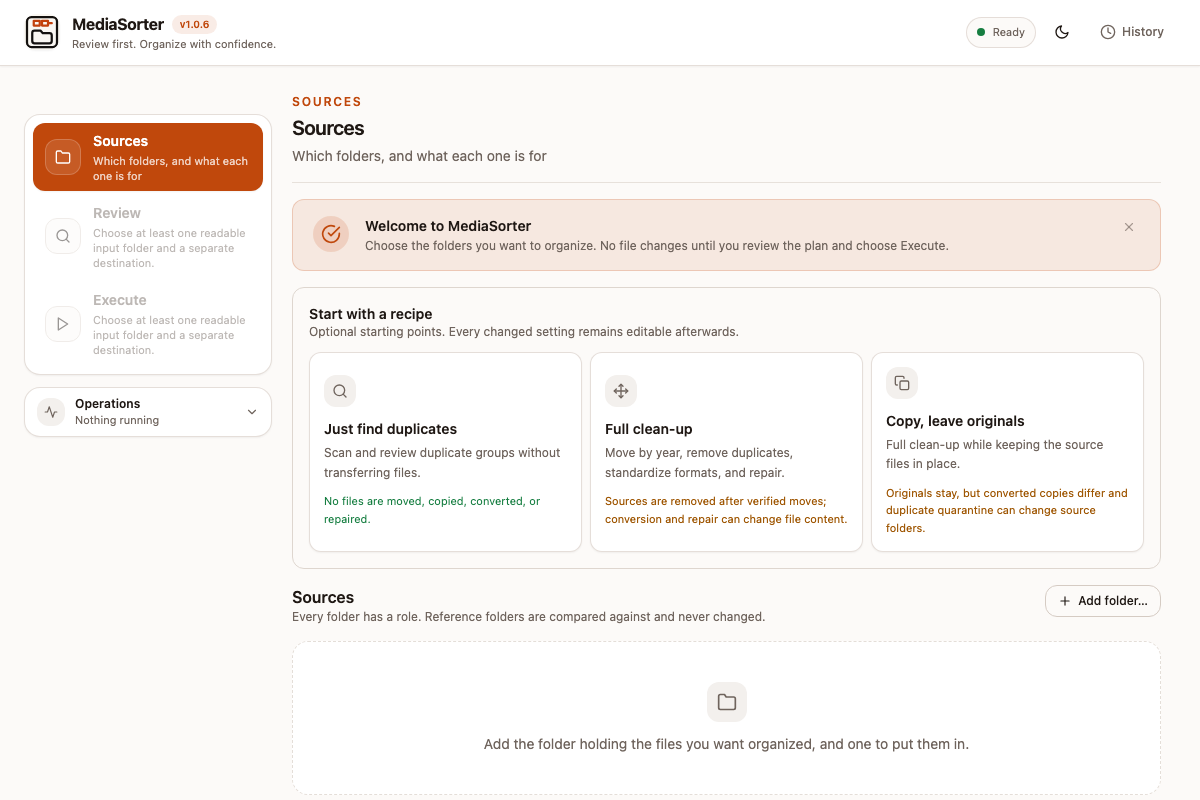
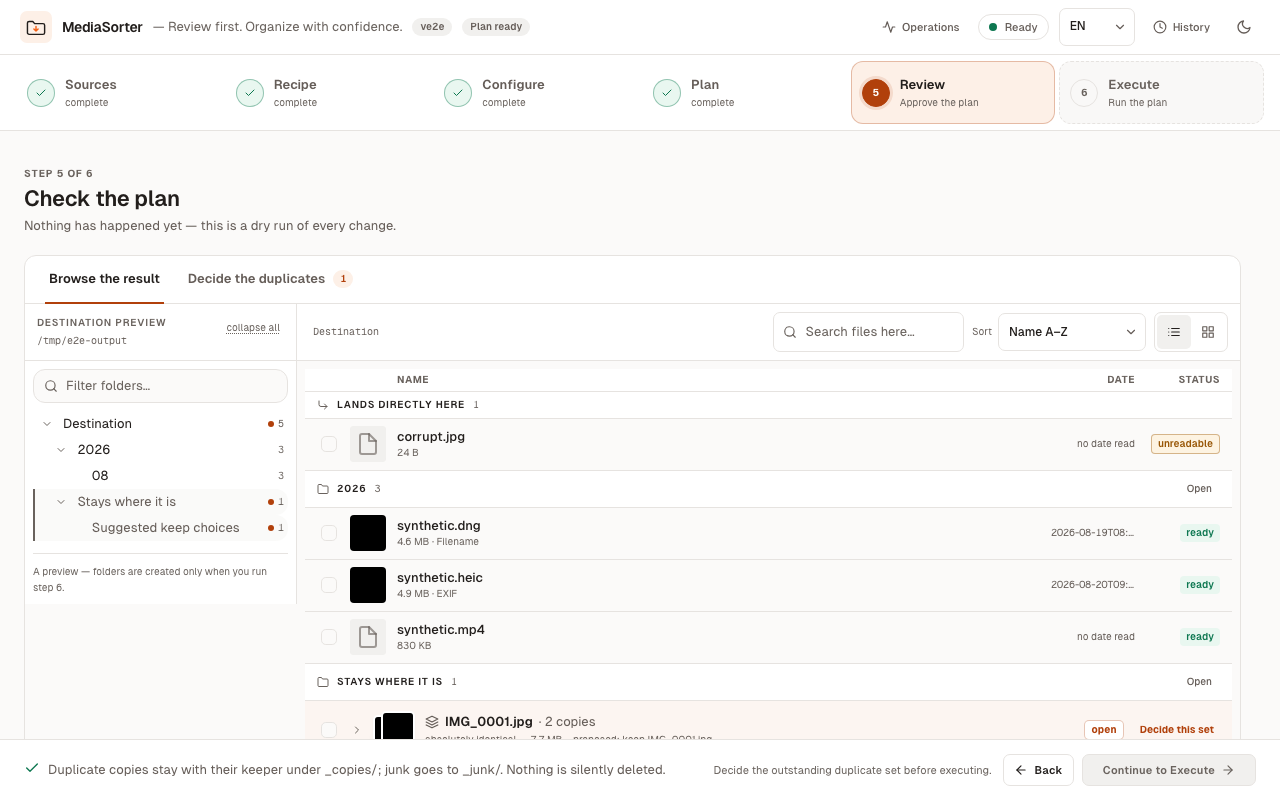
docs: correct the duplicate-review contract and the release trigger
duplicate-review.md claimed protected sets "never enter the queue" —
they are listed and reachable, just never open — and that "activating a
copy keeps it", when it drafts and confirming commits and advances.

Records that releasing is now a reviewed dispatch rather than a push to
main, and drops the cloud tagging provider from README and SECURITY:
tagging is local-only and there is no credential path to describe.

diff --git a/docs/settings-reference.md b/docs/settings-reference.md
@@ -9,6 +9,9 @@ your config directory. Any field can also be overridden by an environment variab
 > clearly named quarantine folders you can review.
 
 Defaults below are the real backend defaults from `backend/app/core/config.py`.
+AI tagging and categorization are local-only: no media, labels, or credentials are sent
+to a cloud media provider. Model downloads happen only through an explicit,
+checksum-verified user action.
 
 ## Recipes and visibility
 
@@ -48,8 +51,8 @@ junk) → **03 Enrich** (convert and tag). The rail beside them carries the *cur
 value* of each entry, so reading it top to bottom answers "what is this run going to
 do?" without expanding anything.
 
-Consequential detail — cloud credentials, label vocabularies, thresholds, rule editing —
-sits behind a per-row disclosure. A new setting belongs in a disclosure unless its value
+Consequential detail — label vocabularies, thresholds, rule editing — sits behind a
+per-row disclosure. A new setting belongs in a disclosure unless its value
 is normally decided for each run or library.
 
 ## Essentials
@@ -292,7 +295,7 @@ Use either, both, or neither.
 The Configure screen probes your machine (`GET /api/hardware`) and shows a **capability
 chip**: your CPU/RAM/GPU summary and the recommended tier. If the machine is below the
 minimum for local AI (needs ≥4 CPU cores and ≥4 GB RAM), local features auto-disable and
-the UI steers you to a cloud tagging provider. Choosing a tier heavier than recommended
+the UI explains that tagging/categorization are unavailable offline. Choosing a tier heavier than recommended
 is allowed but flagged **"may be slow"**, so the choice is always informed.
 
 ### AI content tagging
@@ -300,19 +303,14 @@ is allowed but flagged **"may be slow"**, so the choice is always informed.
 | Setting | Key | Default | What it does |
 |---|---|---|---|
 | Tag media by content | `ai_tagging_enabled` | `false` | Master switch for content tagging. Runs during a real sort, not in preview. |
-| Provider | `ai_tagging_provider` | `"local"` | `local` (offline, free, no key) · `azure_vision` (free 5,000/mo) · `imagga` (~1,000/mo) · `google_cloud_vision` (1,000/mo). |
-| API key / secret / endpoint | `ai_tagging_api_key`, `ai_tagging_api_secret`, `ai_tagging_endpoint` | `null` | Cloud credentials. Azure needs endpoint + key; Imagga needs key + secret; Google needs key. |
 | Max tags per file | `ai_tagging_max_tags` | `10` | Cap on tags written per file. |
 | Tag confidence | `ai_tagging_confidence_threshold` | `0.5` | Minimum confidence (0–1) to keep a tag. For the local tagger this is how much better the label fits than a generic "a photo" background (0.5 = the natural midpoint). |
 | Save tags into files | `embed_tags_in_files` | `true` | Embed deterministic and AI tags into the media (EXIF keywords for JPEG/TIFF, `keywords` for video, `.xmp` sidecar otherwise). Embedding rewrites the file, so it needs a reviewed mutation profile. Off = tags go to the report, plus an `.xmp` sidecar when the preservation profile asks for one. The old `ai_tagging_embed_in_files` key is read for compatibility. |
 | Tag labels | `ai_tagging_labels` | bundled concepts | The vocabulary the local tagger scores. Untouched bundled concepts emit localized English/German labels; editing the list marks it custom and preserves every value verbatim. |
 
-Azure and Imagga receive the selected operation locale and request native German output.
-Google Vision does not guarantee German labels, so known English results are mapped
-through bundled concept aliases and unknown results are omitted with a warning. Local
-SigLIP uses localized descriptions and templates. Local CLIP may use stable English
-semantic prompts for model quality, but still emits the selected localized label.
-Provider failures remain best-effort and never fail the sort.
+Local SigLIP uses localized descriptions and templates. Local CLIP may use stable English
+semantic prompts for model quality, but still emits the selected localized label. Model
+download failures remain best-effort and never fail the sort.
 
 ### Smart Categorization
 

diff --git a/docs/design.md b/docs/design.md
@@ -145,13 +145,13 @@ future versions are left alone.
 ## AI content tagging
 
 Opt-in (`ai_tagging_enabled`), sort-path only — preview stays AI-free rather than burn
-quota and CPU on a dry run. Best-effort throughout: a missing model, bad key or network
-error logs a warning and yields no tags instead of failing the sort.
+CPU on a dry run. Best-effort throughout: a missing model logs a warning and yields no
+tags instead of failing the sort. Media remains local; there is no cloud tagger.
 
-Providers sit behind one `AITagger` interface with a `build_tagger(config)` factory
-(`services/ai/base_tagger.py`). Taggers are deliberately **synchronous**:
-`_process_file` is already on a worker thread, so blocking ONNX and HTTP calls need no
-event-loop gymnastics.
+The local model sits behind one `AITagger` interface with a `build_tagger(config)` factory
+(`services/ai/base_tagger.py`). Tagging is deliberately **synchronous**:
+`_process_file` is already on a worker thread, so blocking ONNX calls need no event-loop
+gymnastics.
 
 Two decisions are worth knowing because the code alone does not explain them:
 
@@ -161,8 +161,7 @@ Two decisions are worth knowing because the code alone does not explain them:
 - **Emitted labels are separate from model prompts.** CLIP may keep English
   prompts for bundled concepts where that measurably helps, while emitting German
   labels; SigLIP uses per-locale templates. Custom labels are always verbatim.
-  Google results map through canonical aliases and unknown ones are dropped with
-  a warning rather than emitted in the wrong language.
+  Model failures yield no tags with a warning rather than failing the sort.
 
 ## Smart Categorization
 
@@ -233,7 +232,7 @@ its own runner.
 | Preview mode | verify before touching any file |
 | Rules before ML | simple rules cover the majority of tagging cases |
 | Tagging vs. categorization split | one writes metadata, the other decides placement; independent config, shared model |
-| Categorization local-only | cloud taxonomies can't map to the user's custom folder names |
+| Categorization local-only | local inference keeps custom folder names and media on the machine |
 | Quarantine, never delete | users can always recover anything that couldn't be placed |
 | Single background task | fine for typical run times; queueing deferred |
 | PyInstaller + bundled ffmpeg | one self-contained installer, no runtime dependencies |

diff --git a/docs/duplicate-review.md b/docs/duplicate-review.md
@@ -72,9 +72,15 @@ full screen and returns to the unchanged comparison. Video pairs additionally sh
 and codec. Unknown measurements stay unknown and never create a winner.
 
 Resolve remains, for the other shape of the same task: working through twelve sets in
-sequence rather than meeting one while browsing. It shows one set at a time, **activating a
-copy keeps it**, number keys pick a copy, left and right move between sets, and nothing in
-it needs a pointer. Both surfaces route through the same handlers, so there is one decision
+sequence rather than meeting one while browsing. It shows one set at a time: activating a
+copy — by pointer or by its number key — **drafts** it, and confirming commits the decision
+and moves to the next set still open. Left and right move between sets, and nothing in it
+needs a pointer. The draft step is deliberate: the recommendation is visible beside the
+copies, and a keeper is chosen rather than triggered.
+
+The list, the position, and the arrow keys all read one order — the one the sort control
+sets. A counter that named a row twelve places down the list was worse than no counter.
+Both surfaces route through the same handlers, so there is one decision
 path and not two. The command `<select>` that used to sit in each set's header is gone; it
 offered a *rule* to a person who had already looked at the pictures.
 
@@ -100,9 +106,10 @@ a disabled command on every set:
   ranking it would pick a keeper on grounds the user was never shown. See
   `planDuplicateSets` in `lib/reviewRows.ts`.
 
-A set with a protected reference never enters the queue: the baseline wins and there is
-nothing to choose. Opening one deliberately from Browse shows it with the reference marked
-protected and says so.
+A set with a protected reference is never *open*: the baseline wins, there is nothing to
+choose, and "Next open" passes over it. It is still listed and still reachable — from Browse,
+or with the arrow keys — and shows the reference marked protected and says so. No surface
+offers it a keeper decision, and a stale decision naming one is ignored rather than applied.
 
 **An outstanding set is visible before the run, not after it.** Browse separates proposals
 from undecided sets under *Stays where it is*. Both bind nothing, both count toward the one

diff --git a/docs/kb-backend.md b/docs/kb-backend.md
@@ -40,7 +40,8 @@ There is **no ORM**. `core/database.py` owns SQLite:
 - `Config` is a **stdlib dataclass** (deliberate — not BaseSettings): `core/config.py`, persisted atomically as a versioned `config.json`; `core/paths.py` owns config/data/database/log roots and their four `MEDIASORT_*` path overrides
 - `core/state_migration.py` runs before config, SQLite, or file logging; it retains legacy sources, snapshots WAL databases, preserves conflicts, and journals outcomes in an atomic manifest
 - `MEDIASORT_<FIELD>` env vars override any field; `_coerce_env_value` resolves the declared field type (unwraps both `typing.Union` and PEP 604 `types.UnionType` — see P2-1 in `REFACTOR_PROGRESS.md`)
-- Never hardcode secrets; cloud AI keys live in config fields the user supplies
+- Never add cloud media providers or credential fields; AI tagging and categorization are
+  local-only and model downloads are explicit, checksum-verified operations.
 
 ## Pydantic v2 — Schemas
 - Per-route request/response models live in the route file; shared ones (used by >1 route) in `api/schemas.py`

diff --git a/docs/development.md b/docs/development.md
@@ -124,8 +124,11 @@ listed exactly in [state-and-recovery.md](state-and-recovery.md).
 
 ## Releasing
 
-Releases are driven by **Conventional Commits** — you don't tag by hand. Push `fix:` or
-`feat:` commits to `main` and the release-it workflow computes the next version,
+Releases are driven by **Conventional Commits** — you don't tag by hand, and you don't
+release by accident either. Land `fix:` or `feat:` commits on `main` as usual, then
+dispatch **Version Release** (`gh workflow run version-release.yml`) when that history is
+meant to ship. Publishing is a decision, so it is a deliberate dispatch rather than a
+side effect of merging. The workflow computes the next version from those commits,
 updates `CHANGELOG.md`, syncs that version everywhere (`scripts/sync-version.mjs` →
 `_version.py`, `tauri.conf.json`, `Cargo.toml`, …), and pushes a `v<version>` tag. That
 tag triggers the release workflow, which builds every OS natively — macOS arm64 + Intel

diff --git a/README.md b/README.md
@@ -20,8 +20,8 @@
 MediaSorter turns mixed camera, phone, messenger, and backup folders into a
 reviewed date-organized library. It extracts capture dates, keeps companion
 files together, detects duplicate and similar media, and can categorize or tag
-content with optional local AI. Processing stays on your machine unless you
-explicitly select a cloud tagging provider.
+content with optional local AI. Processing and tagging stay on your machine;
+the application has no cloud media provider or credential path.
 
 ## Install
 
@@ -198,8 +198,7 @@ instructions belong in ignored `CLAUDE.local.md`.
 
 Report vulnerabilities privately through [SECURITY.md](SECURITY.md). The
 backend binds to loopback by default. Outbound access is limited to explicit
-features such as update checks, model installation, or a configured cloud AI
-provider.
+features such as update checks and model installation.
 
 ## License
 

diff --git a/docs/kb-testing.md b/docs/kb-testing.md
@@ -27,7 +27,8 @@
 - **Mock at the collaborator boundary** with `unittest.mock.patch.object(svc._extraction, "extract_detailed", ...)` — not whole services when testing a route
 - **Background tasks**: use the real typed `Task` when phase/event/partial behavior matters; focused legacy service tests may use a progress/cancel stand-in. Worker-thread cancellation and retention/idempotency behavior belong in `test_task_manager.py`.
 - `pytest.mark.parametrize` for edge-case tables (see `test_config.py` rename-pattern tests)
-- Never touch the network — the update checker and cloud taggers are tested with mocked `httpx`
+- Never touch the network — update/model-download paths are tested with mocked `httpx`, and
+  there is no cloud media tagger to exercise.
 
 ## Coverage Goals
 - Services (business logic): the focus of the ≥80% gate

diff --git a/docs/kb-api-contract.md b/docs/kb-api-contract.md
@@ -74,6 +74,7 @@ filename.
 - Never skip `response_model` on a stable-shape endpoint; never add an undocumented dict return
 - Never mix naming styles — this API is `snake_case`, end to end
 - Never return an unbounded list — bound pagination params at the query layer
-- Never expose secrets (cloud API keys are accepted in config but never echoed into logs)
+- Never add credentials or media-provider secrets to the API; tagging and categorization
+  are local-only and outbound access is limited to explicit update/model-download paths.
 - Never use `Any` in Pydantic schema fields
 - Never trust client-side validation alone — `POST /config` re-validates every key server-side

diff --git a/SECURITY.md b/SECURITY.md
@@ -42,5 +42,5 @@ Two things are worth knowing when assessing a report:
 ## What is deliberately out of scope
 
 The application never uploads, never phones home except for the optional update
-check against `api.github.com`, and stores no credentials beyond the optional
-AI-tagging API keys the user enters, which are kept in the local config file.
+check against `api.github.com`, and stores no cloud media credentials. AI tagging and
+categorization are local-only; model downloads are explicit and checksum-verified.
